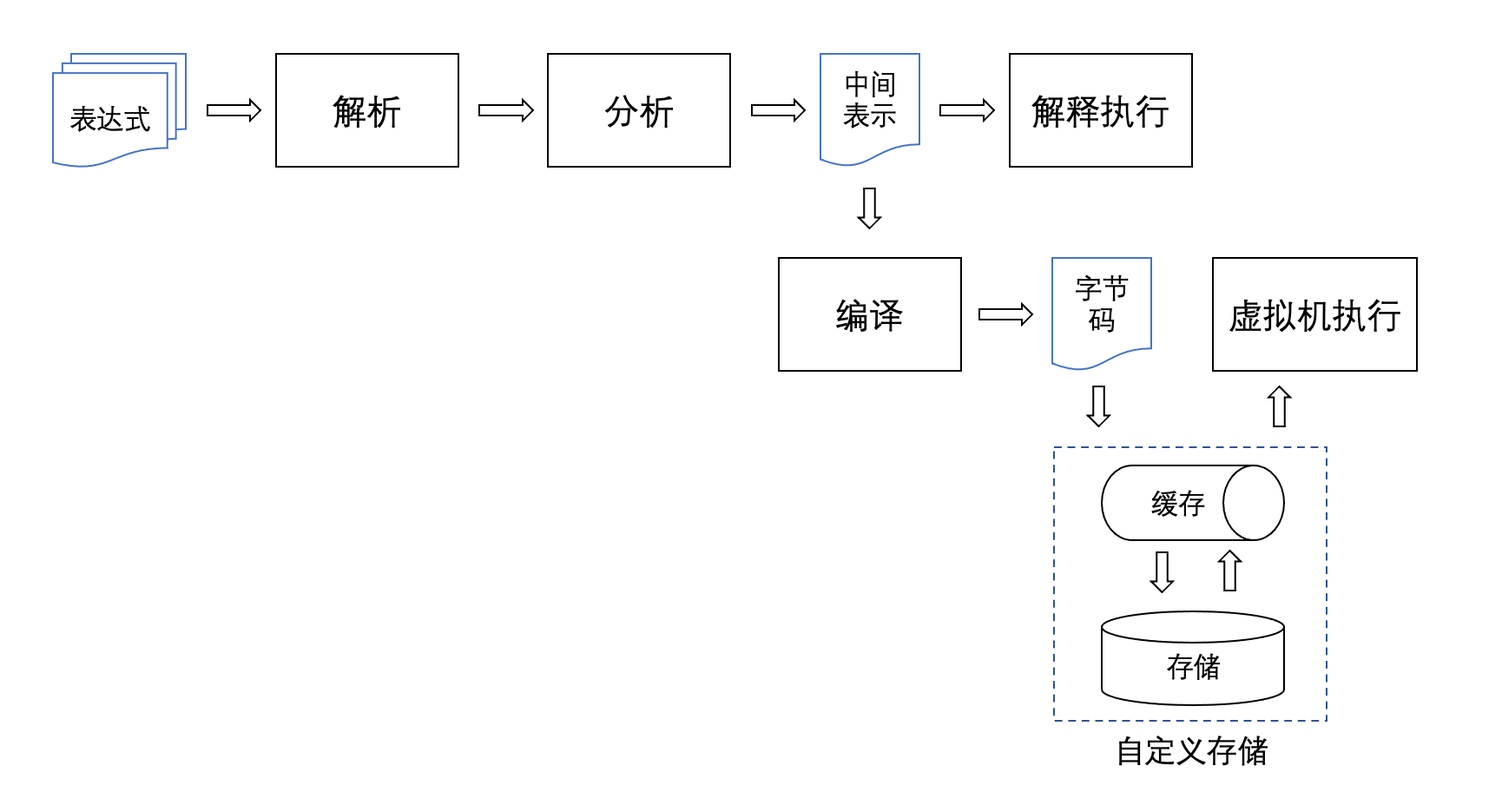
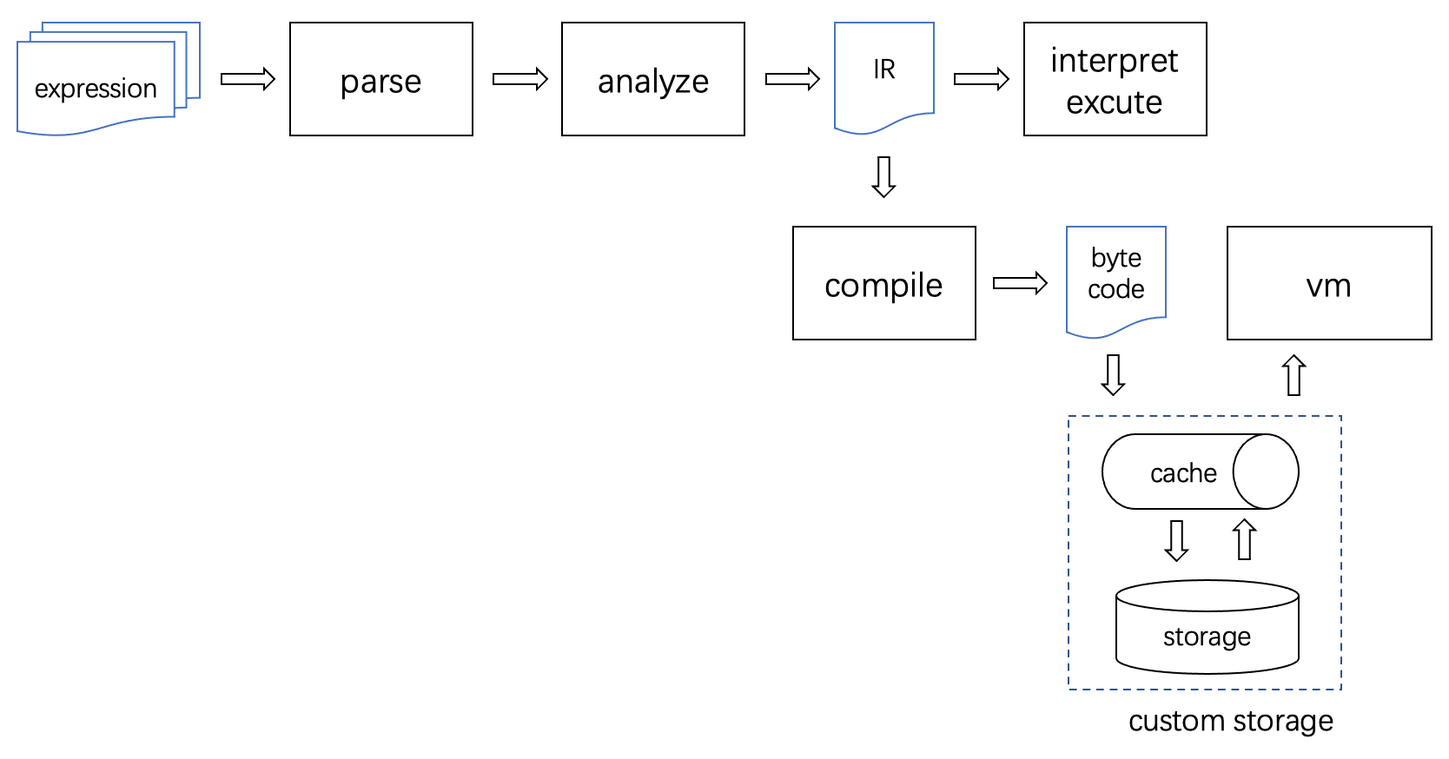
完善文档

diff --git a/README.md b/README.md
@@ -2,6 +2,14 @@
 # I. Background Introduction
 rspression is a high-performance, lightweight expression calculation engine written in Rust, designed to enhance the extensibility of user systems in different business scenarios.
 
+Traditional expression engines typically execute expressions by parsing them into an Abstract Syntax Tree (AST) and then directly interpreting and executing the tree. This approach is suitable for scenarios with a relatively small number of formulas and expressions; since they are parsed, analyzed, and executed from scratch each time, it does not pose significant performance issues. However, if there are thousands of expressions to be executed each time, starting the parsing process from scratch for every single execution would result in a massive waste of resources. If the system is in a single-machine environment, the intermediate representation (IR) structure can simply be cached in memory. But if the system is deployed in a cluster where the cache resides in an independent service like Redis, the footprint of the intermediate structure becomes too large, and the serialization, deserialization, and network transmission during cache reads and writes will consume a considerable amount of time.
+
+To address this background, rspression provides two execution modes. The first is the traditional approach of directly executing expression strings, which is ideal for scenarios with a limited number of expressions. The second is the bytecode execution mode: once the expressions are configured, the business system can compile them into bytecode (Chunk) and persist them into storage services such as caches, databases, or files. When execution is subsequently required, the bytecode is retrieved from the storage or cache service and run directly by the virtual machine.
+
+The bytecode execution mode is inherently different from the process of serializing, deserializing, and then executing an Intermediate Representation (IR) object. Typically, before an IR object can be stored or transmitted over a network, it must first undergo serialization. Then, after being transmitted or retrieved from storage, it must be deserialized back into an object before it can be executed. Bytecode, by contrast, is natively a byte array. Once a string-formatted expression is compiled into bytecode, it can be directly transmitted over the network or written into a storage service without any serialization. Furthermore, when the bytecode is retrieved from the network or a storage service, its in-memory form remains a byte array, which can be directly recognized and executed by the virtual machine without the need for deserialization
+
+While compiling expressions into bytecode introduces a slight initial compilation overhead, it perfectly fits the 'write-once, execute-frequently' business pattern. For high-concurrency workloads with large volumes of expressions, compiling once upon creation or modification enables future executions to run entirely on bytecode, completely decoupled from the source structure. This delivers a massive performance boost for data caching, network transmission, and compute node execution alike.
+
 # II. Usage Guide
 ## Evaluation Mode
 Supports operators such as +, -, *, /, ** (exponentiation), <, >, <=, >=, ==, !=, %, &&, ||, !, etc. Supports Excel-style if(cond, thenBranch, elseBranch) conditional functions.
@@ -62,9 +70,8 @@ println!({}, r) // 7
 
 The default environment object provided by the system is DefaultEnvironment. Before executing expressions, all variables that need to read values must have corresponding values in the DefaultEnvironment object. Sometimes there are many expressions to execute, and the business layer cannot efficiently prepare all variable values in advance before parsing expressions. Or the variables in the expressions are indirectly related to the actual data. In such cases, you can define a custom environment object by simply inheriting the Environment abstract class.
 
-## Compilation and Execution
-rspression provides two ways to execute expressions. The first is to execute expression strings directly, as shown in the examples above, which is suitable for cases with fewer expressions. The second is to first compile the expression into bytecode (Chunk), where the business system caches or stores the bytecode object, and later when execution is needed, the bytecode is run directly.
-
+## Bytecode Execution
+The expressions are first compiled into bytecode (Chunk) and then cached or stored by the business system. When subsequent execution is required, the bytecode is run directly.
 - Compile expressions:
 ```rust
 use rspression::{Chunk, RspRunner};
@@ -89,48 +96,3 @@ runner.run_chunk(&chunk, &mut env).unwrap();
 ```
 
 The Chunk object consists only of byte arrays with extremely high serialization and deserialization performance, making it suitable for cluster environments using caching services like Redis.
-
-# III. Implementation Approach
-![Overall Process](docs/images/all-steps.png)
-
-String-format expressions are processed in the parser through lexical analysis and syntax analysis to obtain a syntax tree. During the analysis phase, rspression extracts variable information from all expressions and sorts all formulas according to the dependency relationships between variables to obtain an intermediate representation structure (ExprInfo) that can be executed sequentially.
-
-For the subsequent execution of expressions, the simplest approach is to directly interpret and execute the expression syntax tree, which is suitable for cases with fewer formula expressions. Each execution starts from scratch with parsing, analysis, and execution, and performance generally does not present significant issues. However, if thousands or even tens of thousands of expressions need to be executed each time, parsing from zero for each execution would waste resources. If the system is a single-machine environment, the intermediate representation structure can be cached in memory. However, if the system is deployed in a cluster with caching services like Redis, the intermediate structure would occupy too much space, and serialization, deserialization, and network transmission during cache read/write operations would consume a lot of time.
-
-To address this situation, rspression provides a bytecode execution format. After the business system configures expressions, it can first compile them into bytecode (Chunk), then place the bytecode in a cache or storage service such as a database or file system. When execution is needed later, the bytecode is read from the storage/cache service and executed.
-
-## 3.1 Parsing
-### Lexical Analysis
-Lexical analysis is the first step in rspression's processing of expressions, with the goal of splitting string-format expressions into a list of words (tokens). We know that characters are the basic units composing strings, but for expression execution, arbitrarily extracting a fragment or substring of an expression for analysis is meaningless. For example:
-```rust
-age = currentDate - birthday
-```
-If we focus on "currentDate", we can determine this is a variable. If we focus on "=" or "-", we know these are operators, one for assignment and one for subtraction. However, if we focus on substrings like "rrentDa" or "ge = curr", these are meaningless for expression analysis. The purpose of lexical analysis is to process string-format expressions into a series of meaningful words, allowing subsequent processing stages of the compiler to focus only on the meaningful token list without needing to analyze the relationships between characters within the string. For example, the final meaningful processing result is:
-![Lexical Analysis Result](docs/images/tokens.png)
-
-Subsequent processing stages use only these five tokens as the basic processing unit.
-
-The combinations of different characters that can form strings are infinite. However, as the basic units of expressions, token categories are fixed. All token categories are defined in the [token::TokenType](src/parser/token.rs) enumeration. The lexical analyzer scans the string from left to right and categorizes words into corresponding categories while creating tokens. At the code level, only the following cases need to be classified and handled:
-
-- Single-character symbols: When a scanned character can only be a single-character symbol, such as ()[]{},.;-+/%etc., directly construct a token object
-- Double-character symbols: When a scanned character could be either a single character or the start of a double-character symbol, look ahead one character to determine if it forms a corresponding double-character token, such as !=, ==, >=, <=, //, ** etc.
-- Whitespace: Skip directly, including spaces, carriage returns, newlines, tabs, etc. Comments are also skipped directly.
-- String literals: When a double quote is scanned, continue scanning until another double quote appears. The content between them constitutes a string literal.
-- Numeric literals: When a digit is scanned, continue scanning until a non-digit character is encountered or the end is reached. The content in between constitutes a numeric literal.
-- Identifiers: When a letter or underscore is encountered at the start, continue scanning. Subsequent characters that are letters, digits, or underscores continue to be scanned until a character that doesn't satisfy this or the end is reached. The collected content forms an identifier.
-- Keywords: Keyword matching is handled as part of identifier matching. According to the keyword priority principle, whenever a completed identifier matches a keyword, a keyword token is formed.
-
-For the complete implementation code, refer to [Scanner::Scanner](src/parser/scanner.rs)
-
-### Syntax Analysis
-To obtain the syntax tree, the expression engine uses the Pratt parser algorithm during the syntax analysis phase.
-
-Traditional recursive descent parsers require writing separate parsing functions for each priority level when parsing expressions. They then call parsing functions layer by layer from low to high priority. For example, assign() parses assignments, term() parses addition and subtraction, factor() parses multiplication and division. Then assign() would call term(), and term() would call factor(). This easily leads to bloated code, and adding new syntax requires restructuring existing logic, increasing program maintenance difficulty.
-
-## 3.2 Analysis
-
-## 3.3 Interpretation Execution
-
-## 3.4 Compilation
-
-## 3.5 Virtual Machine Execution

diff --git a/README-cn.md b/README-cn.md
@@ -1,6 +1,14 @@
 # rspression
 # 一、背景介绍
 rspression是一款用rust编写的高性能、轻量级表达式计算引擎，旨在提高用户系统在不同业务场景下的扩展能力。
+
+传统的表达式引擎对表达式的执行过程一般是将表达式解析为语法树，然后直接解释执行语法树，这种方式适合公式表达式数量比较少的情况，每次从头解析、分析、执行，性能上也不会有太大问题。但如果每次需要执行的表达式数量都有成千上万条，那么每执行一次都从0开始做解析，就会造成资源的浪费。如果系统是单机环境，倒是可以把中间表示结构缓存在内存中。但如果系统是集群部署，缓存是类似redis的独立服务，则中间结构所占的空间就太大了，读写缓存时序列化、反序列化、网络传输会占用很多时间。
+
+针对这种背景，rspression提供了两种执行表达式的方式，一是传统的直接执行表达式字符串，适合表达式数量较少的情况。二是字节码运行模式，业务系统在配置好表达式以后，可以先将表达式编译为字节码(Chunk)，然后将字节码放入缓存或者数据库、文件等存储服务中。最后需要执行的时候，从存储/缓存服务中读取出字节码再由虚拟机运行。
+
+字节码运行模式与中间表示对象(IR)序列化/反序列化再运行有本质区别，通常对IR对象做存储或者网络传输前需要先经过序列化的过程，然后经过网络传输或者从存储中读取到序列化结果后，想要运行则又必须先经过反序列化为对象的过程。不同于序列化反序列化，字节码本身就是一个字节数组，字符串格式的表达式被编译成字节码后，无须经过序列化就可以直接进行网络传输，或者写入到存储服务中。而通过网络传输或者存储服务读取到的字节码，其在内存中的形式为一个字节数组，这个字节数组同样不需要反序列化就可以直接被虚拟机识别并运行。
+
+将表达式编译为字节码虽有微小的前期性能损耗，但完美契合了表达式‘单次写入、海量复用’的业务形态。对于高并发、多表达式的业务，在创建或变更时触发单次编译，后续运行完全脱离原始结构、纯靠字节码驱动，这为数据层缓存、网络带宽以及计算节点执行带来了质的性能飞跃。
 # 二、用法说明
 ## 求值模式
 支持+、-、*、/、**【指数运算】、<、>、<=、>=、==、!=、%、&&、||、!、等操作符。支持Excel风格的if(cond, thenBranch, elseBranch)条件函数。
@@ -57,8 +65,8 @@ let r = runner.execute_with_env("a + b * c", &mut env)?;
 println!({}, r) // 7
 ```
 系统提供的默认环境对象为DefaultEnvironment，在执行表达式前，对于表达式中需要读取值的变量，都需要在DefaultEnvironment对象中有值。有时候需要执行的表达式数量较多，在对表达式做解析之前，业务层无法高效的把所有变量值都提前准备好，或者表达式中的变量和实际数据之间是间接的关联，这时候便可以根据需要自定义环境对象，只需继承Environment抽象类即可。
-## 编译运行
-rspression提供两种执行表达式的方式，一是直接执行表达式字符串，比如上文所举例子，适合表达式数量较少的情况。二是先把表达式编译为字节码(Chunk)，业务系统缓存或者存储字节码对象，后续需要执行时直接运行字节码。
+## 字节码运行
+先把表达式编译为字节码(Chunk)，由业务系统缓存或者存储字节码，后续需要执行时直接运行字节码。
 - 编译表达式：
 ```rust
 use rspression::{Chunk, RspRunner};
@@ -81,47 +89,3 @@ let chunk = Chunk::from_bytes(&bytes);
 runner.run_chunk(&chunk, &mut env).unwrap();
 ```
 Chunk对象只由字节数组构成，序列化、反序列化性能极高，适合集群环境使用redis等缓存服务做缓存的场景。
-
-# 三、实现方式
-![整体流程](docs/images/all-steps.png)
-
-字符串形式的表达式在解析器中通过词法分析、语法分析过程得到语法树，然后在分析环节，rspression会提取出所有表达式的变量信息，并根据变量间的依赖关系对所有公式做排序，得到可顺序执行的中间表示结构(ExprInfo)。
-
-接下来对表达式的执行，最简单的就是直接解释执行表达式语法树，这种方式适合公式表达式数量比较少的情况，每次都从头解析、分析、执行，性能上也不会有太大问题。但如果每次需要执行的表达式数量都有成千上万条，那么每执行一次都从0开始做解析，就会造成资源的浪费。如果系统是单机环境，那么可以把中间表示结构缓存在内存中。但如果系统是集群部署，缓存是类似redis的独立服务，则中间结构所占的空间就太大了，读写缓存时序列化、反序列化、网络传输会占用很多时间。
-
-针对这种情况，rspression提供了字节码格式的执行方式。业务系统在配置好表达式以后，可以先将表达式编译为字节码(Chunk)，然后将字节码放入缓存或者数据库、文件等存储服务中。最后需要执行的时候，从存储/缓存服务中读取出字节码再运行。
-## 3.1 解析
-### 词法分析
-词法分析是rspression处理表达式的第一步，目的是把字符串格式的表达式分割成单词(token)列表。我们知道，组成字符串的基本单位是一个一个的字符，但是对于表达式的运行来说，随意截取表达式的一个片段或者任意取子串做分析是没有意义的，比如：
-```rust
-age = currentDate - birthday
-```
-我们如果关注“currentDate”，就确定这是一个变量，关注“=”或者“-”就知道这是操作符，一个代表赋值一个代表做减法。但如果我们把注意力放在“rrentDa”或者“ge = curr”这样的子串上，那对表达式的分析来说是没有任何意义的。所以词法分析的作用就是把字符串格式的表达式处理为一系列有意义的单词，让编译器后续的处理环节都只关注有意义的单词列表，无需再去分析字符串内部字符间的关系。比如最终有意义的处理结果为：
-![词法分析结果](docs/images/tokens.png)
-后续处理环节都只以这五个token为最基本的处理单元。
-
-不同的字符所能组合而成的字符串是无限的。但是，token作为构成表达式的基本单位，其类别又是固定的，所有token的类别都在[token::TokenType](src/parser/token.rs)这个枚举中定义。词法分析器的作用就是从左往右扫描字符串，并把字符串中的单词归入对应的类别，同时创建出token。代码层面只需对以下几种情况分类处理即可。
-- 单字符符号，扫描到的字符只可能是单字符符号，如()[]{},.;-+/%等等，则直接构造出token对象
-- 双字符符号，扫描到的字符如果可能是单字符也可能是双字符的开头，那么再往前取一个字符做判断，看是否能构成对应的双字符token，如：!=、==、>=、<=、//、**等。
-- 空白，直接跳过，包括空格、回车换行、tab等，注释也直接跳过。
-- 字符串字面量，扫描到双引号时，继续往后扫描，直到另一个双引号出现，这中间的部分构成一个字符串字面量。
-- 数值字面量，扫描到的字符是数字时，继续往后扫描，直至扫描到非数字符号或者到达结尾，中间的内容构成一个数值字面量。
-- 标识符，扫描到字母或者下划线开头时，继续往后扫描，后续遇到的字符只要是字母、数字或者下划线就继续扫描，直达不满足或者到达结尾，收集到的内容就组成了一个标识符。
-- 关键字，关键字的匹配作为标识符匹配内的一部分来处理，根据关键字优先原则，只要扫描完成的标识符和某个关键字匹配，就构成一个关键字token。
-  
-完整实现代码参照[Scanner::Scanner](src/parser/scanner.rs)
-
-### 语法分析
-为了得到语法树，表达式引擎在语法分析阶段使用的算法是Pratt parser。
-
-传统的递归下降解析器在解析表达式时，需要为每个优先级层次编写单独的解析函数，然后根据优先级从低到高的一层一层的调用解析函数，比如assign()解析赋值，term()解析加减，factor()解析乘除，那么在assign()里会调用term()，term()里会调用factor()，这样就容易导致代码臃肿，增加新语法时需要重构现有逻辑，增加了程序的维护难度。
-
-
-
-## 3.2 分析
-
-## 3.3 解释执行
-
-## 3.4 编译
-
-## 3.5 虚拟机运行

diff --git a/docs/Design and Implementation.md b/docs/Design and Implementation.md
@@ -1,0 +1,41 @@
+
+# 1. Overall Process
+![Overall Process](images/all-steps.png)
+
+An expression in string form is processed by a parser through lexical and syntactic analysis to generate an Abstract Syntax Tree (AST). Then, during the analysis phase, the expression engine extracts all variable information from the expressions and sorts all formulas based on their dependencies, resulting in a sequentially executable Intermediate Representation (IR) structure called ExprInfo. Subsequently, there are two modes for executing the expressions: direct interpretation and execution, or compiling them into bytecode first to be run by a virtual machine.
+
+# 2. Parsing
+## Lexical Analysis
+Lexical analysis is the first step in rspression's processing of expressions, with the goal of splitting string-format expressions into a list of words (tokens). We know that characters are the basic units composing strings, but for expression execution, arbitrarily extracting a fragment or substring of an expression for analysis is meaningless. For example:
+```rust
+age = currentDate - birthday
+```
+If we focus on "currentDate", we can determine this is a variable. If we focus on "=" or "-", we know these are operators, one for assignment and one for subtraction. However, if we focus on substrings like "rrentDa" or "ge = curr", these are meaningless for expression analysis. The purpose of lexical analysis is to process string-format expressions into a series of meaningful words, allowing subsequent processing stages of the compiler to focus only on the meaningful token list without needing to analyze the relationships between characters within the string. For example, the final meaningful processing result is:
+![Lexical Analysis Result](images/tokens.png)
+
+Subsequent processing stages use only these five tokens as the basic processing unit.
+
+The combinations of different characters that can form strings are infinite. However, as the basic units of expressions, token categories are fixed. All token categories are defined in the [token::TokenType](src/parser/token.rs) enumeration. The lexical analyzer scans the string from left to right and categorizes words into corresponding categories while creating tokens. At the code level, only the following cases need to be classified and handled:
+
+- Single-character symbols: When a scanned character can only be a single-character symbol, such as ()[]{},.;-+/%etc., directly construct a token object
+- Double-character symbols: When a scanned character could be either a single character or the start of a double-character symbol, look ahead one character to determine if it forms a corresponding double-character token, such as !=, ==, >=, <=, //, ** etc.
+- Whitespace: Skip directly, including spaces, carriage returns, newlines, tabs, etc. Comments are also skipped directly.
+- String literals: When a double quote is scanned, continue scanning until another double quote appears. The content between them constitutes a string literal.
+- Numeric literals: When a digit is scanned, continue scanning until a non-digit character is encountered or the end is reached. The content in between constitutes a numeric literal.
+- Identifiers: When a letter or underscore is encountered at the start, continue scanning. Subsequent characters that are letters, digits, or underscores continue to be scanned until a character that doesn't satisfy this or the end is reached. The collected content forms an identifier.
+- Keywords: Keyword matching is handled as part of identifier matching. According to the keyword priority principle, whenever a completed identifier matches a keyword, a keyword token is formed.
+
+For the complete implementation code, refer to [Scanner::Scanner](src/parser/scanner.rs)
+
+## Syntax Analysis
+To obtain the syntax tree, the expression engine uses the Pratt parser algorithm during the syntax analysis phase.
+
+Traditional recursive descent parsers require writing separate parsing functions for each priority level when parsing expressions. They then call parsing functions layer by layer from low to high priority. For example, assign() parses assignments, term() parses addition and subtraction, factor() parses multiplication and division. Then assign() would call term(), and term() would call factor(). This easily leads to bloated code, and adding new syntax requires restructuring existing logic, increasing program maintenance difficulty.
+
+# 3. Analysis
+
+# 4. Interpretation Execution
+
+# 5. Compilation
+
+# 6. Virtual Machine Execution

diff --git a/docs/设计和实现.md b/docs/设计和实现.md
@@ -1,0 +1,40 @@
+
+# 1. 整体流程
+![整体流程](images/all-steps-cn.png)
+
+字符串形式的表达式在解析器中通过词法分析、语法分析过程得到语法树，然后在分析环节，rspression会提取出所有表达式的变量信息，并根据变量间的依赖关系对所有公式做排序，得到可顺序执行的中间表示结构(ExprInfo)。接下来对表达式的执行有两种模式：一是直接解释执行，二是先编译为字节码再由虚拟机运行。
+# 2. 解析
+## 词法分析
+词法分析是rspression处理表达式的第一步，目的是把字符串格式的表达式分割成单词(token)列表。我们知道，组成字符串的基本单位是一个一个的字符，但是对于表达式的运行来说，随意截取表达式的一个片段或者任意取子串做分析是没有意义的，比如：
+```rust
+age = currentDate - birthday
+```
+我们如果关注“currentDate”，就确定这是一个变量，关注“=”或者“-”就知道这是操作符，一个代表赋值一个代表做减法。但如果我们把注意力放在“rrentDa”或者“ge = curr”这样的子串上，那对表达式的分析来说是没有任何意义的。所以词法分析的作用就是把字符串格式的表达式处理为一系列有意义的单词，让编译器后续的处理环节都只关注有意义的单词列表，无需再去分析字符串内部字符间的关系。比如最终有意义的处理结果为：
+![词法分析结果](images/tokens.png)
+后续处理环节都只以这五个token为最基本的处理单元。
+
+不同的字符所能组合而成的字符串是无限的。但是，token作为构成表达式的基本单位，其类别又是固定的，所有token的类别都在[token::TokenType](src/parser/token.rs)这个枚举中定义。词法分析器的作用就是从左往右扫描字符串，并把字符串中的单词归入对应的类别，同时创建出token。代码层面只需对以下几种情况分类处理即可。
+- 单字符符号，扫描到的字符只可能是单字符符号，如()[]{},.;-+/%等等，则直接构造出token对象
+- 双字符符号，扫描到的字符如果可能是单字符也可能是双字符的开头，那么再往前取一个字符做判断，看是否能构成对应的双字符token，如：!=、==、>=、<=、//、**等。
+- 空白，直接跳过，包括空格、回车换行、tab等，注释也直接跳过。
+- 字符串字面量，扫描到双引号时，继续往后扫描，直到另一个双引号出现，这中间的部分构成一个字符串字面量。
+- 数值字面量，扫描到的字符是数字时，继续往后扫描，直至扫描到非数字符号或者到达结尾，中间的内容构成一个数值字面量。
+- 标识符，扫描到字母或者下划线开头时，继续往后扫描，后续遇到的字符只要是字母、数字或者下划线就继续扫描，直达不满足或者到达结尾，收集到的内容就组成了一个标识符。
+- 关键字，关键字的匹配作为标识符匹配内的一部分来处理，根据关键字优先原则，只要扫描完成的标识符和某个关键字匹配，就构成一个关键字token。
+  
+完整实现代码参照[Scanner::Scanner](src/parser/scanner.rs)
+
+## 语法分析
+为了得到语法树，表达式引擎在语法分析阶段使用的算法是Pratt parser。
+
+传统的递归下降解析器在解析表达式时，需要为每个优先级层次编写单独的解析函数，然后根据优先级从低到高的一层一层的调用解析函数，比如assign()解析赋值，term()解析加减，factor()解析乘除，那么在assign()里会调用term()，term()里会调用factor()，这样就容易导致代码臃肿，增加新语法时需要重构现有逻辑，增加了程序的维护难度。
+
+
+
+# 3. 分析
+
+# 4. 解释执行
+
+# 5. 编译
+
+# 6. 虚拟机运行
